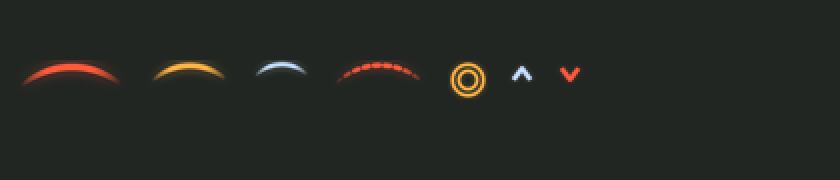
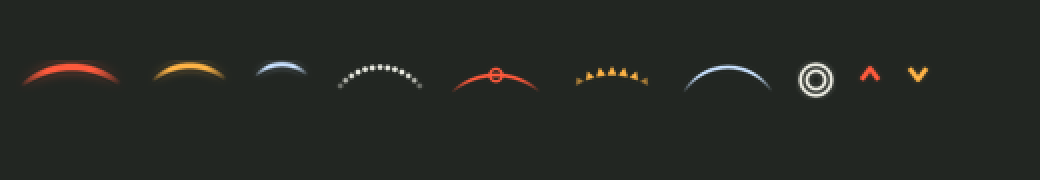
Presence sense: the noises around, as Visual Sounds shows them
At the advanced rank 2 every world sound the character can hear (the hearing
traits change how far) is sorted by its source as Visual Sounds sorts them:
vehicles, alarms (house, car going off, an alarm clock on a zombie), devices
(radio, TV, generator, jukebox) and anything else; a source-less sound is
judged by what stands on its square. Each kind is a white arc with its own
pattern (a wheel, dots, spikes, plain) in its exact direction; colour stays
with the zombies' arcs. A source heard again keeps one mark.

Floor chevrons are drawn upright and white on the mark itself, as Visual
Sounds draws its arrows: outside the arcs they hung off the arc's end.

pzdev: continue (from the main menu) and resuming past a Lua error that
stops a load.

Changed region(s): [[0.0, 0.3333, 0.8976, 0.5556]]

diff --git a/tools/sense_art.py b/tools/sense_art.py
@@ -8,7 +8,10 @@ Usage:
 The marks are white: the game tints them as it draws them (DrawTextureAngle with a colour) and turns them to face
 the way the zombies are. Each is drawn at 8x and downsampled with LANCZOS.
   OA_Sense_Arc_L / _M / _S  a soft glowing arc, bulging up (outward once turned): near / mid / far
-  OA_Sense_Dots             a dotted arc, for a vehicle or an alarm heard (rank 2)
+  OA_Sense_Noise / _Car / _Dots / _Alarm
+                            thin arcs for a noise heard (rank 2), its kind in the pattern as Visual Sounds draws
+                            them: plain (anything), a wheel (a vehicle), dots (a radio, TV or generator), spikes
+                            (an alarm). One white tint for all: the zombies' arcs keep the colours
   OA_Sense_Thump            two small rings, for zombies beating on something (rank 2)
   OA_Sense_Up / _Down       a chevron, for zombies a floor above or below (rank 2)
 """
@@ -81,12 +84,67 @@ def chevron(size, up):
     return finish(glowing(im, S, 1.0, 0.5), size, size)
 
 
+def noise_arc(style, w=48, h=18):
+    """A thin arc for a noise heard, its kind in its pattern as Visual Sounds draws them: "plain" (anything), "car" (a
+    wheel on its middle), "dots" (a machine: radio, TV, generator), "teeth" (an alarm: little spikes outward)."""
+    W, H = w * S, h * S
+    core = Image.new("L", (W, H), 0)
+    d = ImageDraw.Draw(core)
+    top = H * 0.42 if style in ("car", "teeth") else H * 0.2
+    sag = H - top - S * 2
+    half = W / 2 - S * 2
+    r = (half * half + sag * sag) / (2 * sag)
+    cx, cy = W / 2, top + r
+    span = math.asin(min(1.0, half / r))
+
+    def at(t):
+        a = span * t
+        return cx + r * math.sin(a), cy - r * math.cos(a), a
+
+    if style == "dots":
+        n = 15
+        for i in range(n):
+            t = -1 + 2 * i / (n - 1)
+            x, y, _ = at(t)
+            fade = 1 - abs(t) ** 2.2
+            rad = S * 1.25
+            d.ellipse((x - rad, y - rad, x + rad, y + rad), fill=int(255 * fade))
+    elif style == "teeth":
+        n = 9
+        for i in range(n):
+            t = -1 + 2 * i / (n - 1)
+            x, y, a = at(t * 0.92)
+            fade = 1 - abs(t) ** 2.0
+            # a small triangle standing on the arc, pointing away from the centre
+            nx, ny = math.sin(a), -math.cos(a)
+            tx, ty = math.cos(a), math.sin(a)
+            base, tall = S * 2.2, S * 4.2 * (0.6 + 0.4 * fade)
+            pts = [(x - tx * base, y - ty * base), (x + tx * base, y + ty * base), (x + nx * tall, y + ny * tall)]
+            d.polygon(pts, fill=int(255 * fade))
+    else:
+        steps = 400
+        for i in range(steps + 1):
+            t = -1 + 2 * i / steps
+            x, y, _ = at(t)
+            fade = 1 - abs(t) ** 2.2
+            rad = S * 0.75 * (0.6 + 0.4 * fade)
+            d.ellipse((x - rad, y - rad, x + rad, y + rad), fill=int(255 * fade))
+        if style == "car":
+            x, y, _ = at(0)
+            rad = S * 3.6
+            d.ellipse((x - rad, y - rad, x + rad, y + rad), outline=255, width=int(S * 1.2))
+    return finish(glowing(core, S * 0.8, 1.0, 0.4), w, h)
+
+
 def build():
     return {
         "OA_Sense_Arc_L": arc(56, 16, 3.2),
         "OA_Sense_Arc_M": arc(42, 13, 2.6),
         "OA_Sense_Arc_S": arc(30, 10, 2.0),
-        "OA_Sense_Dots": arc(48, 14, 2.4, dotted=True),
+        "OA_Sense_Dots": noise_arc("dots"),
+        "OA_Sense_Car": noise_arc("car"),
+        "OA_Sense_Alarm": noise_arc("teeth"),
+        "OA_Sense_Noise": noise_arc("plain"),
         "OA_Sense_Thump": rings(20),
         "OA_Sense_Up": chevron(14, True),
         "OA_Sense_Down": chevron(14, False),
@@ -98,8 +156,8 @@ def main():
     for name, im in images.items():
         im.save(os.path.join(OUT_DIR, name + ".png"))
     if "--preview" in sys.argv:
-        tints = [(255, 90, 60), (255, 180, 70), (200, 225, 255)]
-        sheet = Image.new("RGBA", (420, 90), (34, 38, 34, 255))
+        tints = [(255, 90, 60), (255, 180, 70), (200, 225, 255), (235, 235, 225)]
+        sheet = Image.new("RGBA", (520, 90), (34, 38, 34, 255))
         x = 8
         for (name, im), tint in zip(images.items(), tints * 3):
             col = Image.new("RGBA", im.size, tint + (255,))

diff --git a/tools/pzdev.py b/tools/pzdev.py
@@ -10,6 +10,8 @@ Usage:
                                                               whole screen with --full) after waiting
     python tools/pzdev.py reload                              leaves the save to the main menu and continues it (Lua and
                                                               translations are read again; textures need a restart)
+    python tools/pzdev.py continue                            from the main menu (after a game start), continues the
+                                                              latest save and waits for it
     python tools/pzdev.py resume                            presses Resume in the game's Lua debugger (with Break On
                                                               Error, any Lua error, even one a pcall catches, stops the
                                                               game there, and the channel with it)
@@ -155,13 +157,30 @@ def reload():
     if send("getCore():exitToMenu()", 15) != 0:
         return 1
     time.sleep(25)
+    return continue_save()
+
+
+# Presses Continue on the main menu and returns when the channel answers in the loaded save.
+def continue_save():
     click(CONTINUE_AT)
     end = time.time() + 180
+    seen = console_size()
     while time.time() < end:
         time.sleep(5)
         if send('print("loaded")', 5, quiet=True) == 0:
             print("reloaded")
             return 0
+        # a Lua error while loading (vanilla's too) stops the load in the debugger: report it and go on
+        size = console_size()
+        if size > seen:
+            with open(CONSOLE, "rb") as f:
+                f.seek(seen)
+                new = f.read().decode("utf-8", errors="replace")
+            seen = size
+            thrown = [l.strip() for l in new.splitlines() if "Exception thrown" in l]
+            if thrown:
+                print("a Lua error stopped the load:", thrown[0])
+                click(RESUME_AT)
     print("the save did not come back in 3 minutes")
     return 1
 
@@ -186,6 +205,8 @@ def main():
         return resume()
     if len(sys.argv) == 2 and sys.argv[1] == "reload":
         return reload()
+    if len(sys.argv) == 2 and sys.argv[1] == "continue":
+        return continue_save()
     if len(sys.argv) < 3:
         print(__doc__)
         return 2

diff --git a/TREES.md b/TREES.md
@@ -59,7 +59,7 @@
 | 3 | 기척 감지 | 2 | 좀비가 내는 기척을 화면에 표시한다. 웅크려 걸을 때만 (웅크림이면서 달리기·전력질주가 아님). 서 있거나 달리면 완전히 꺼진다. 1: 방향 / 2: 거리 | 육감 2 |
 | 3 | 눈썰미 | 3 | 연구팀이 찾는 것을 더 많이 건진다. 1: 낙하 지점에서 줍는 운석 파편 +50%(기대값), 물건을 분해할 때 시료 묶음 +1개 / 2: 파편 +100%, 시료 묶음 +2개 / 3: 파편 +150%, 시료 묶음 +3개. 파편과 시료 묶음은 우리 모드가 만드는 것이라 우리 굴림에 배율을 건다 (바닐라 훅·용기 훑기 없음). 시료 묶음 추가분은 다른 추가분과 합쳐 기본 산출을 넘지 않는다 (수치표 3장) | 알찬 수색 2 |
 | 4 | 탄약 수색 | 2 | 용기와 좀비 시체에서 탄약이 나올 확률 +50 / +100%. 바닐라 전리품의 분류 배율 자리(`ItemPickerJava.getLootModifierFromType`의 "Ammo" 반환값)에 배율을 건다. 알찬 수색과 곱해진다. 시체는 체감이 +50%보다 작을 수 있어, 인게임에서 약하면 `getActualSpawnChance` 한 훅으로 합치고 Ammo 캐시 표를 쓴다 | 눈썰미 2 |
-| 4 | 기척 감지 강화 | 3 | 1: 서서 걸을 때도 / 2: 부수는 중인 좀비 구분, 차·경보 소리, 위아래 층 / 3: 달리거나 전력질주할 때도. 바닐라 이동 상태는 걷기·달리기(Shift)·전력질주(Alt)·웅크림 (`IsoPlayer.isSneaking`, `isRunning`, `isSprinting`) | 기척 감지 2 |
+| 4 | 기척 감지 강화 | 3 | 1: 서서 걸을 때도 / 2: 부수는 중인 좀비 구분, 위아래 층, 주변 소음(Visual Sounds처럼 소리 출처로 구분: 차량, 경보(집·차·좀비 몸의 알람시계), 기기(라디오·TV·발전기·주크박스), 그 밖의 소리; 종류는 흰 호의 무늬로 구분하고 색은 좀비 표시에만 쓴다) / 3: 달리거나 전력질주할 때도. 바닐라 이동 상태는 걷기·달리기(Shift)·전력질주(Alt)·웅크림 (`IsoPlayer.isSneaking`, `isRunning`, `isSprinting`) | 기척 감지 2 |
 | 캡스톤 | 야행성 눈 | 1 | 밤눈을 끝까지 밀어 올린다. 어둠 때문에 좁아지는 시야를 100% 되돌려, 밤에도 낮처럼 본다. 야시경처럼 화면을 바꾸지는 않는다 | 밤눈 3 |
 
 경보 읽기는 Better lockpicking 계열의 '알람 확인'과 겹친다 (`research/loot-carry.md`). 같이 켜도 표시만 둘이 될 뿐 깨지지
